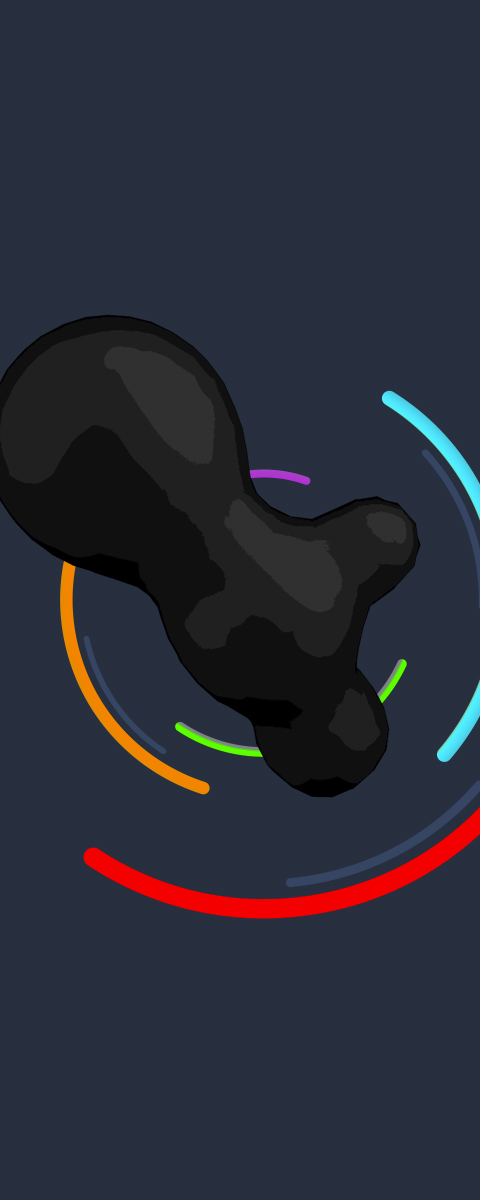
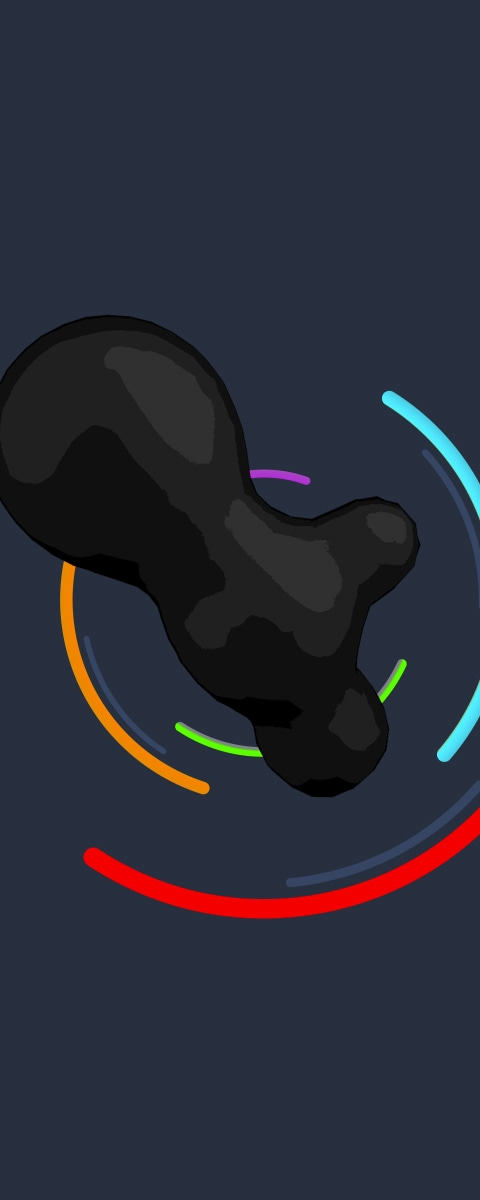
Worked on image compression - Using mozjpeg imageoptim plugin for tiles

diff --git a/Gruntfile.js b/Gruntfile.js
@@ -1,6 +1,7 @@
 module.exports = function(grunt) {
 
     require('time-grunt')(grunt);
+    var mozjpeg = require('imagemin-mozjpeg');
 
     grunt.initConfig({
         pkg: grunt.file.readJSON('package.json'),
@@ -114,12 +115,29 @@ module.exports = function(grunt) {
             }
         },
 
-        imagemin: {                          // Task
-            dynamic: {                         // Another target
+
+
+        imagemin: {  
+            tiles: {                          // Target
+                  options: {                       // Target options
+                    optimizationLevel: 3,
+                    svgoPlugins: [{ removeViewBox: false }],
+                    use: [mozjpeg({quality: 95})]
+                  },
+                  files: [{
+                    expand: true,                  // Enable dynamic expansion
+                    cwd: 'assets/tiles',                   // Src matches are relative to this path
+                    src: ['*.{png,jpg,gif}'],   // Actual patterns to match
+                    dest: 'assets/tiles'                  // Destination path prefix
+                  }]
+                },
+
+                                // Task
+            images: {                         // Another target
               files: [{
                 expand: true,                  // Enable dynamic expansion
                 cwd: 'assets/',                   // Src matches are relative to this path
-                src: ['**/*.{png,jpg,gif}'],   // Actual patterns to match
+                src: ['**/*.{png,jpg,gif}', '!tiles/*.*'],   // Actual patterns to match
                 dest: 'assets/'                  // Destination path prefix
               }]
             }
@@ -138,8 +156,9 @@ module.exports = function(grunt) {
     grunt.loadNpmTasks('grunt-newer');
 
 
-    grunt.registerTask('default', ['svgstore', 'newer:imagemin:dynamic', 'shell:jekyllDrafts', 'uglify', 'postcss', 'express', 'watch']);
-    grunt.registerTask('deploy',  ['svgstore', 'newer:imagemin:dynamic', 'shell:jekyllBuild', 'uglify', 'postcss', 'buildcontrol:pages']);
+    grunt.registerTask('default', ['svgstore', 'newer:imagemin', 'shell:jekyllDrafts', 'uglify', 'postcss', 'express', 'watch']);
+    grunt.registerTask('deploy',  ['svgstore', 'newer:imagemin', 'shell:jekyllBuild', 'uglify', 'postcss', 'buildcontrol:pages']);
+    grunt.registerTask('img',  ['imagemin:static']);
 
     grunt.task.registerTask('post', 'Create new jekyll posts from templates.', function() {
       var name = grunt.option('name'),
